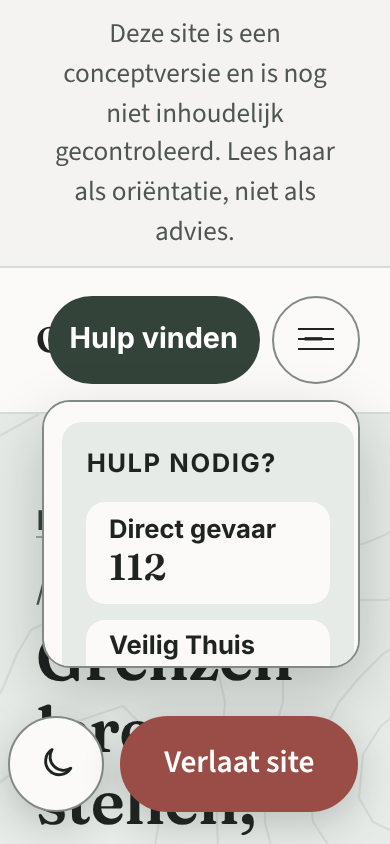
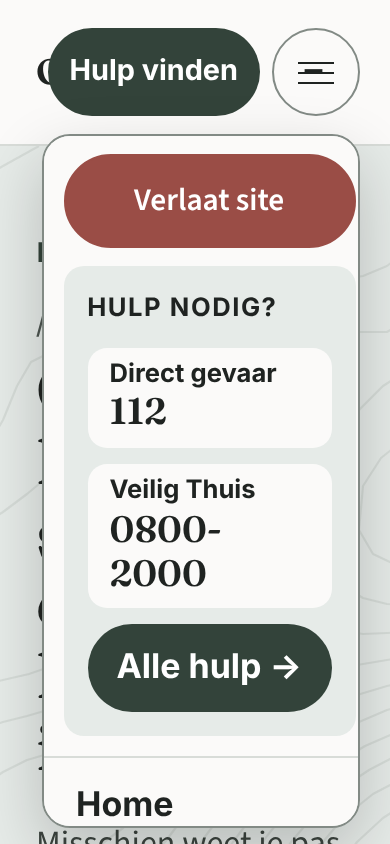
docs: Sprint 3.1 notes and before/after screenshots
Refs #42

Claude-Session: https://claude.ai/code/session_01EGkh59gzny4aKhZTkfioLr

diff --git a/docs/DESIGN_SPRINT_3_1.md b/docs/DESIGN_SPRINT_3_1.md
@@ -1,0 +1,92 @@
+# Sprint 3.1: veiligheid, toegankelijkheid en visuele verfijning
+
+11 november 2026 · Issue [#42](https://github.com/R4YM3/unheard/issues/42) · Branch `fix/sprint3.1-safety-a11y-links` · Basis `main` @ `d723ed1`
+
+Issue #42 is de bron van waarheid. De vier gekoppelde rapporten op `chatgpt.com/library` waren vanuit de ontwikkelomgeving niet bereikbaar: ze tonen alleen een inlogpagina. Die rapporten zijn daarom niet gebruikt en er zijn geen onderzoeksresultaten aangevuld. Dit is gemeld in het issue.
+
+## P0 · Mobiele navigatie en veilig verlaten
+
+| Criterium                                      | Vóór (`d723ed1`)                                  | Na                                                                                                                                                                                         |
+| ---------------------------------------------- | ------------------------------------------------- | ------------------------------------------------------------------------------------------------------------------------------------------------------------------------------------------ |
+| QA-01 · paneelhoogte bij 320 × 200             | 2 px binnenhoogte; Tab bereikte onzichtbare links | 125 px, scrollbaar; iedere link zichtbaar bij Tab en Shift+Tab                                                                                                                             |
+| QA-01 · focus zichtbaar                        | Focus viel weg achter de rand of het dock         | Paneel scrolt mee met de focus; de focusring staat binnen het paneel                                                                                                                       |
+| QA-01 · dock dekt niets af                     | Dock lag over menu en inhoud bij lage hoogte      | Bij een schermhoogte van 30rem of minder en een open menu verdwijnt het dock en staat ‘Verlaat site’ bovenaan in het paneel. Op hogere schermen houdt het paneel ruimte vrij voor het dock |
+| QA-01 · pagina verschuift bij tabben           | Tabben door het menu scrolde de pagina eronder    | Met JavaScript staat het paneel vast in beeld (`position: fixed`), zodat de pagina niet meescrolt                                                                                          |
+| QA-02 · Escape bij open menu                   | Sloot het menu, focus terug                       | Ongewijzigd, nu zonder scrollsprong (`focus({ preventScroll: true })`)                                                                                                                     |
+| QA-02 · Escape bij gesloten menu, ook herhaald | Verliet de site                                   | Doet niets: pagina en scrollpositie blijven; getypte tekst in een zoekveld blijft staan                                                                                                    |
+| QA-02 · ‘Verlaat site’                         | Link plus Escape-sneltoets (`aria-keyshortcuts`)  | Alleen de expliciete native link: muis, touch, Enter, zonder JS. Klikken met Ctrl, Cmd of Shift laat de site aan de browser over. `aria-keyshortcuts` is verwijderd                        |
+| QA-02 · Veilig gebruik                         | Beschreef Escape als uitgang                      | NL en EN: Esc sluit alleen een menu; uitleg over de terugknop met en zonder JS; geen belofte dat de geschiedenis wordt gewist                                                              |
+
+**Ontwerpbeslissingen:**
+
+- In zoekvelden laten browsers Escape de tekst wissen. De site onderdrukt dat, omdat het issue vraagt om invoer te behouden.
+- Bij schermen lager dan 480 px schuift de pagina bij het openen van het menu omhoog tot de sticky header bovenaan staat. Bij sluiten keert de oude positie terug.
+
+## P1 · Homepage-hero
+
+De rij met ‘Gevoelens bekijken’, ‘Voorbeelden van gesprekken bekijken’ en ‘Begrijpen wat er gebeurt’ (Sprint 2) is verwijderd, samen met het schemaveld, de content en de CSS. De hero toont weer alleen de introductie en de twee bestaande acties. De bestemmingen blijven bereikbaar:
+
+- de secties `#gevoelens` en `#perspectief` direct onder de hero;
+- ‘Begrijp het’ in de hoofdnavigatie.
+
+De zes gevoelenskaarten, de vragenroute, de vier homepagevoorbeelden, variant A op de gevoelspagina’s en de B-light-vergelijking zijn ongewijzigd.
+
+## P1 · Linkstijlen
+
+De hiërarchie is vastgelegd in [CONTENT_GUIDE.md](CONTENT_GUIDE.md#linkstijlen) en geldt via gedeelde stijlen:
+
+1. **Inline links in lopende tekst** blijven onderstreept.
+2. **Zelfstandige links** (`.text-link`) hebben linkkleur, zijn vet en krijgen een pijl. Ze zijn niet permanent onderstreept, alleen bij hover. Het gaat om ‘Ontdek de tijdlijn’, ‘Alle 9 gevoelens’, de begrippenindex en de resultaten van de vragenroute.
+3. **Navigatie** gebruikt plaats en vorm, met onderstreping bij hover. Het gaat om de footerlijsten, het kruimelpad, de zoekresultaten en de actieve link in het desktopsubmenu (die al een achtergrond heeft). De actieve hoofdsectie in de header houdt haar onderstreping als staatsaanduiding.
+4. **Kaarten en knoppen** zijn ongewijzigd.
+
+Twee links stonden midden in een zin maar hadden de zelfstandige stijl: de verwijzing naar ‘Help me woorden vinden’ in de startkeuze en de bronlink bij een cijfer. Die gebruiken nu `.inline-link`. Een scan van alle NL-pagina’s vindt geen links in lopende tekst zonder onderstreping meer, en geen zelfstandige links met een vaste onderstreping.
+
+## Screenshots
+
+In `docs/screenshots/sprint-3.1/` staan voor-en-na-paren (links `main`, rechts deze branch) en losse beelden (prefix `na-`). Ze zijn gemaakt met Chromium:
+
+- menu bij 320 × 200 (eerste en laatste focus), 667 × 375 en 320 × 568;
+- menu bij 390 × 844 in donker;
+- homepage op desktop en mobiel;
+- linkstijlen: kruimelpad, pager, footer en proza, in licht en donker.
+
+## Tests
+
+Alle tests zijn uitgevoerd op commit `cd0791e`, met Chromium. Zie de PR voor de laatste commit.
+
+| Controle                                                                                                                             | Resultaat                                |
+| ------------------------------------------------------------------------------------------------------------------------------------ | ---------------------------------------- |
+| `npm run check`: astro check, eslint, prettier, contentvalidatie en 35 unit-tests                                                    | geslaagd                                 |
+| `npm run build` met de dist-audit (interne links, metadata, schema)                                                                  | 104 pagina’s, geslaagd                   |
+| `scripts/axe-audit.mjs`, alle pagina’s, licht en donker                                                                              | 202 runs, 0 schendingen                  |
+| axe op het geopende menu bij 320 × 200, 320 × 568, 390 × 844 en 667 × 375, licht en donker                                           | 0 schendingen                            |
+| `scripts/print-audit.mjs`, `scripts/ux-audit.mjs`                                                                                    | geslaagd                                 |
+| 640 × 400 (≈ 200% zoom van 1280 × 800): header op één rij, menu opent, Tab start bij ‘Verlaat site’, Escape sluit zonder weg te gaan | geslaagd                                 |
+| `scripts/header-audit.mjs`, uitgebreid (zie hieronder)                                                                               | geslaagd; dezelfde audit faalt op `main` |
+
+Nieuwe regressiedekking in `scripts/header-audit.mjs`:
+
+- **Menu:** bij 320 × 200, 320 × 568, 360 × 740, 390 × 844, 430 × 932 en 667 × 375 blijft elk item zichtbaar bij Tab en Shift+Tab, binnen het paneel, in beeld en niet onder het dock. Er is precies één zichtbare ‘Verlaat site’.
+- **Escape:** sluit het menu en geeft de focus terug. Herhaald Escape houdt pagina en positie, op desktop en mobiel. Escape in het zoekveld laat de tekst staan.
+- **‘Verlaat site’:** werkt met Enter en zonder JavaScript.
+- **Homepage:** de hero heeft geen ingangenrij, en de ankers en de navigatie naar Begrijp het bestaan.
+- **Linkhiërarchie:**
+  - proza is onderstreept;
+  - footer, kruimelpad, kaarten en hoofdnavigatie zijn niet onderstreept;
+  - `.text-link` is niet onderstreept en heeft een pijl.
+
+## Niet getest (handmatig nog open)
+
+- Firefox en Safari. In deze omgeving is alleen Chromium beschikbaar.
+- VoiceOver op iOS, NVDA en TalkBack.
+- Echte browserzoom van 200% en 400%. Die is benaderd met kleinere viewports: 640 × 400 en 320 × 200 komen overeen met 1280 × 800 op 200% en 400%.
+- Echte touchbediening op een telefoon.
+- Of de terugknop na ‘Verlaat site’ zich in iOS Safari gedraagt zoals beschreven op Veilig gebruik.
+
+## Open ontwerpvragen
+
+1. Moet ‘Verlaat site’ bij een open menu op lage schermen bovenaan het paneel staan of onderaan? Bovenaan is direct bereikbaar, maar de eerste Tab gaat dan naar de uitgang en niet naar ‘Direct gevaar 112’.
+2. Moet Escape in zoekvelden de standaardwerking van de browser houden (tekst wissen)?
+3. Moeten zoekresultaten een pijl krijgen, net als zelfstandige links, of volstaat de lijstvorm?
+4. Moet de huidige pagina in het mobiele menu onderstreept blijven, of volstaat de balk van de actieve sectie?
